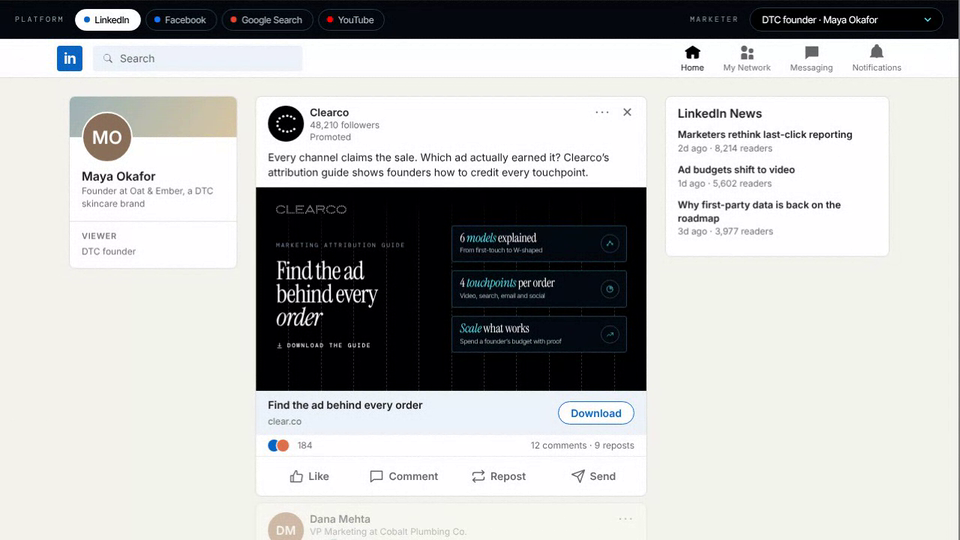
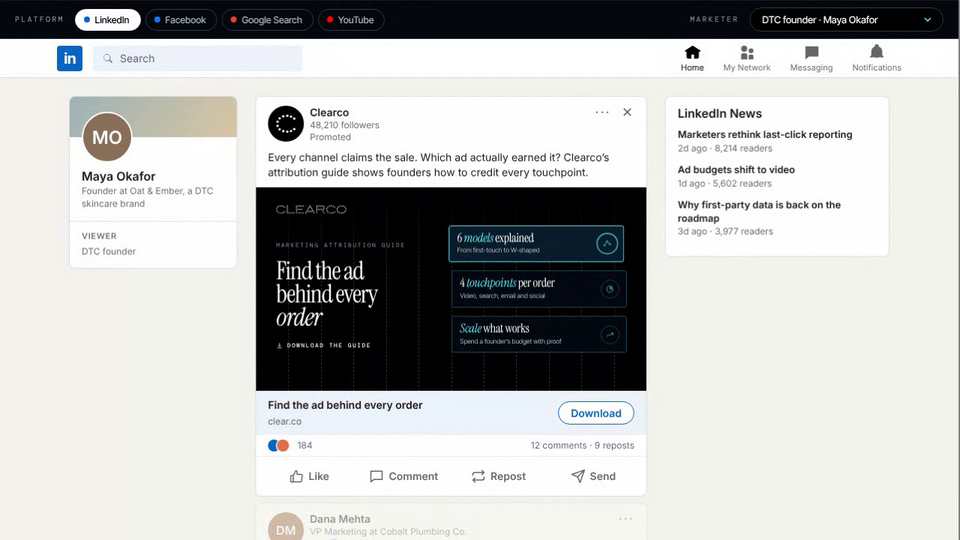
Clearco Paid Ad Pipeline: animate the value cards (slide in on each platform, then take turns lighting up)
Claude-Session: https://claude.ai/code/session_01AHeBdxfESGkB61WPERPkmT

Changed region(s): [[0.4688, 0.4148, 0.6562, 0.5037]]

diff --git a/clearco-paid-ad-pipeline/index.html b/clearco-paid-ad-pipeline/index.html
@@ -61,6 +61,13 @@ nav.back span{color:#6e6e6e}nav.back b{font-weight:500;color:#fff;overflow:hidde
 .cr .stage>*{pointer-events:none}
 .cr .stage{display:flex;flex-direction:column;justify-content:center;gap:2.2cqw;padding:0 5cqw 0 0}
 .cr .bl{position:relative;display:flex;align-items:center;background:rgba(4,10,16,.94);border:1px solid #24465c;border-radius:3px;padding:3.4cqw 17cqw 3.4cqw 4.6cqw;color:#fff}
+.cr .bl:nth-child(2){--i:1}.cr .bl:nth-child(3){--i:2}
+.cr.play .bl{animation:cardin .8s cubic-bezier(.2,.8,.2,1) calc(var(--i,0) * .2s) backwards,hl 6s ease-in-out calc(1.4s + var(--i,0) * 2s) infinite}
+.cr.play .bl .ic{animation:icp 6s ease-in-out calc(1.4s + var(--i,0) * 2s) infinite}
+@keyframes cardin{from{opacity:0;transform:translateX(7cqw)}}
+@keyframes hl{0%,34%,100%{border-color:#24465c;background:rgba(4,10,16,.94);transform:none}8%,26%{border-color:var(--cyan);background:rgba(10,30,44,.96);transform:translateX(-1.6cqw)}}
+@keyframes icp{0%,34%,100%{transform:translateY(-50%) scale(1);border-color:#2b3d52}8%,26%{transform:translateY(-50%) scale(1.14);border-color:var(--cyan)}}
+@media(prefers-reduced-motion:reduce){.cr.play .bl,.cr.play .bl .ic{animation:none}}
 .cr .bl .ic{position:absolute;right:4cqw;top:50%;width:10.5cqw;height:10.5cqw;transform:translateY(-50%);padding:2.5cqw;border:1px solid #2b3d52;border-radius:50%;color:var(--cyan)}
 .cr .bl strong{display:block;font:400 7cqw/1 var(--serif);letter-spacing:-.02em}
 .cr .bl strong i{color:var(--cyan)}
@@ -520,7 +527,7 @@ document.querySelectorAll('[data-go]').forEach(b=>b.onclick=e=>{if(b.tagName==='
 const cr=$('cr');
 function mount(){const pf=P[Math.max(0,state.p)].k;document.querySelectorAll('.pf').forEach(e=>e.classList.toggle('on',e.id==='pf-'+pf));
  const slot=document.querySelector('#pf-'+pf+' .slot');if(slot&&cr.parentNode!==slot)slot.appendChild(cr);
- cr.href=adUrl()}
+ cr.href=adUrl();cr.classList.remove('play');void cr.offsetWidth;cr.classList.add('play')}
 function adUrl(){const p=P[Math.max(0,state.p)],m=M[Math.max(0,state.m)];return GUIDE+'?'+utmQ(p,m)}
 function utmQ(p,m){return `utm_source=${p.src}&utm_medium=${p.med}&utm_campaign=attribution_guide&utm_content=${m.k}`}
 const TXT={init:m=>m.init,name:m=>m.name,role:m=>m.role,seg:m=>m.seg,intro:m=>m.intro,bar:m=>m.h.join(' '),fbd:m=>m.fbd,q:m=>m.q,gt:m=>m.gt,gd:m=>m.gd,yt:m=>m.yt};
